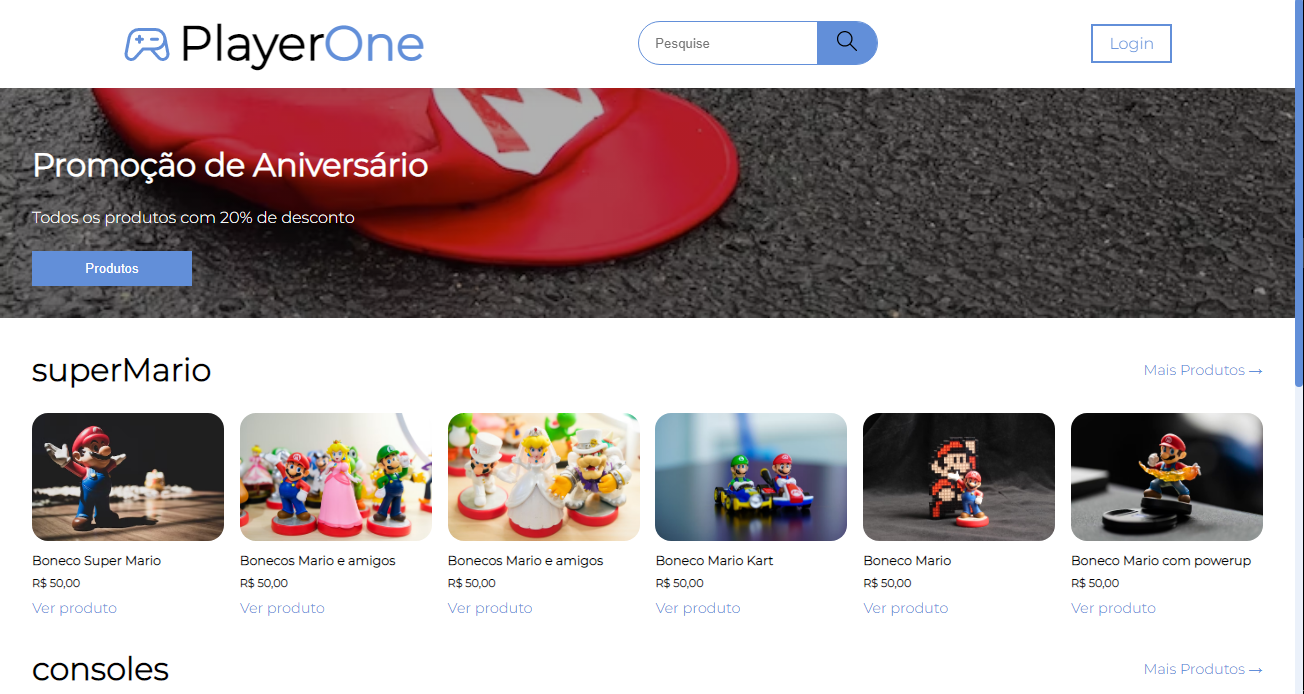
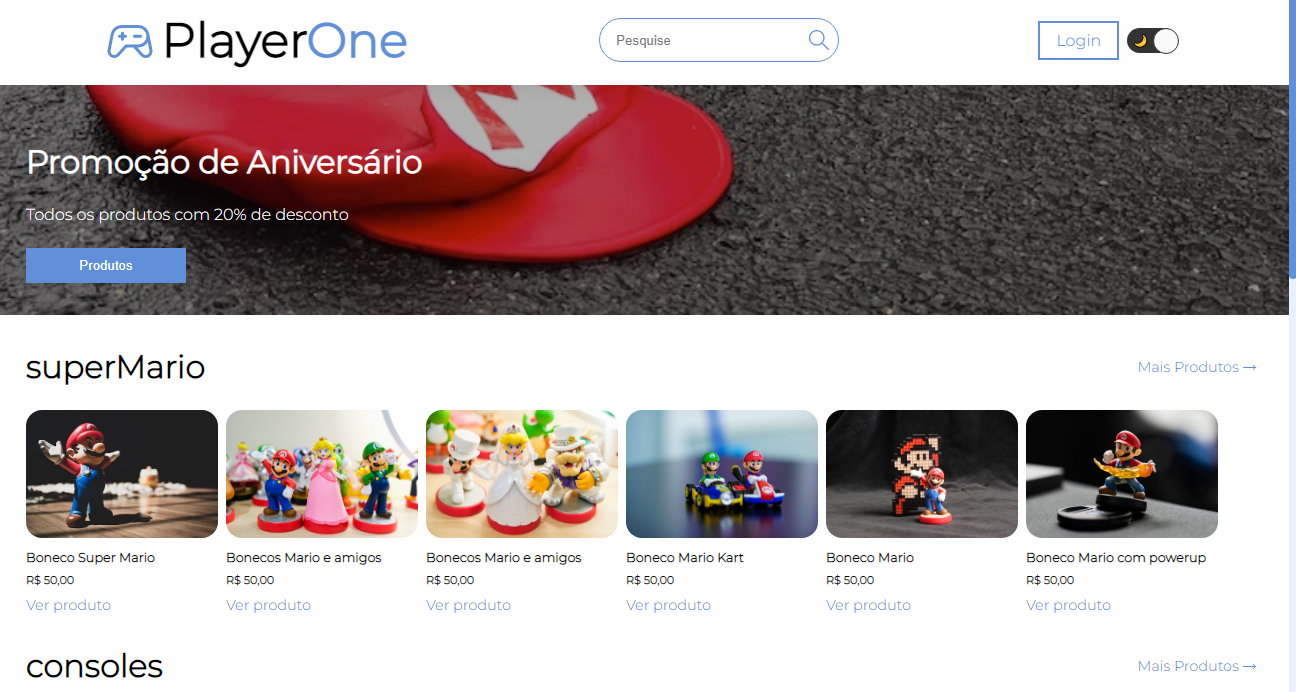
docs: comments on ThemeProvider. Demo link using Vercel. New illustrative image

diff --git a/README.md b/README.md
@@ -3,7 +3,7 @@
 
 &#xa0;
 
-<!-- <a href='linkdosite'>Demo</a> -->
+<a href='https://projeto-e-commerce-nextjs.vercel.app/'>Demo</a>
 
 </div>
 
@@ -64,10 +64,13 @@
   Durante o processo descrito no parágrafo anterior eu utilizei o conceito de Prop drilling, que é um estágio do desenvolvimento que acontece quando precisamos obter dados que estão em várias camadas na árvore de componente react. Já que o useState() foi colocado na página de index.js e precisou descer "perfurando" o componente de Header até chegar no componente SearchBar.
 </p>
 
+<p>
+  Como próxima etapa realizada eu construí um arquivo de tema e usei Providers para trabalhar a mudança de tema ao clicar em um botão DarkMode. O objetivo foi conhecer o Provider e utilizar ele de forma a praticar com um projeto real sua utilização. Além disso eu utilizei a Vercel para subir o projeto na web, o link se encontra no topo deste arquivo e no menu direito no repositório deste projeto.
+</p>
+
 ## :sparkles: Funcionalidades ##
 
-- [ ] Modo escuro na página;
-- [ ] Popup de politica de cookies;
+- [X] Modo escuro na página;
 - [ ] Tela de login funcional;
 - [ ] Página de perfil de usuário;
 - [X] Barra de pesquisa de produtos funcional;
@@ -82,7 +85,6 @@ As seguintes ferramentas foram usadas na construção do projeto:
 - [Node.js](https://nodejs.org/en/)
 - [React](https://pt-br.reactjs.org/)
 - [Styled-Components](https://styled-components.com/)
-- [Styled-jsx](https://github.com/vercel/styled-jsx)
 - [Json](https://developer.mozilla.org/pt-BR/docs/Web/JavaScript/Reference/Global_Objects/JSON)
 
 ## :white_check_mark: Pré requisitos ##
